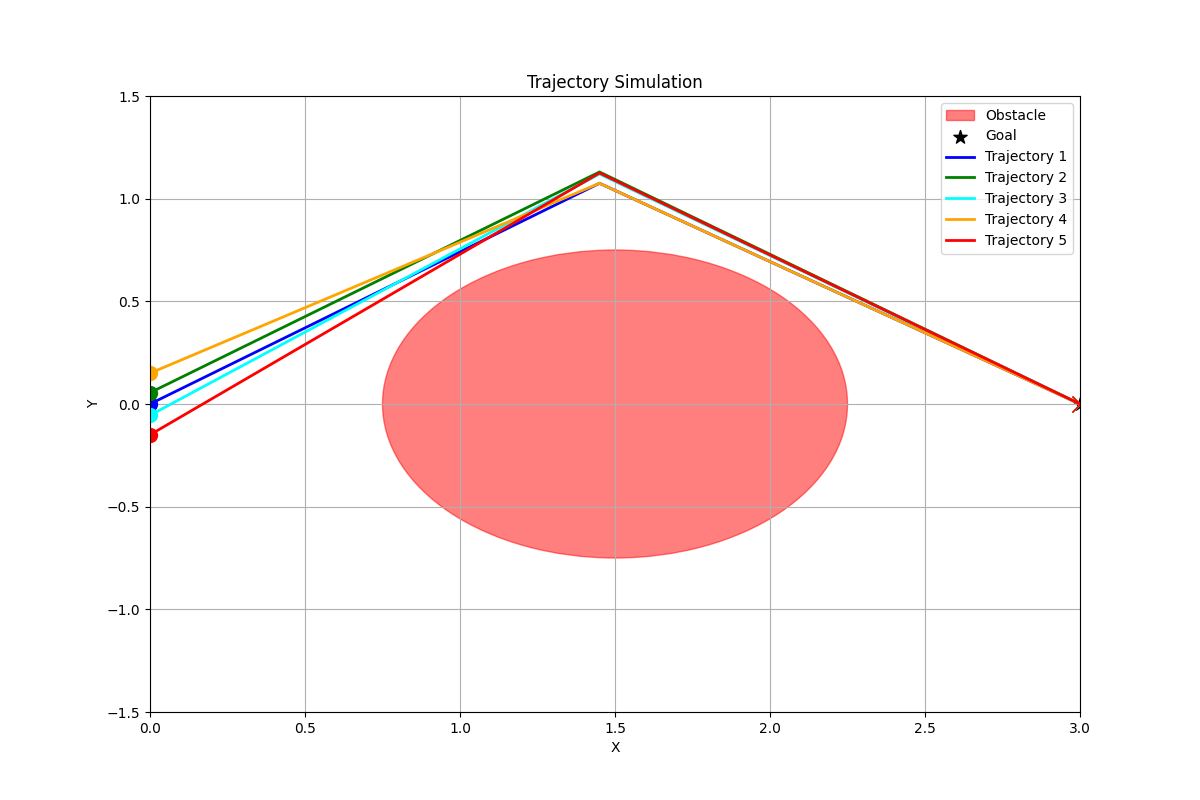
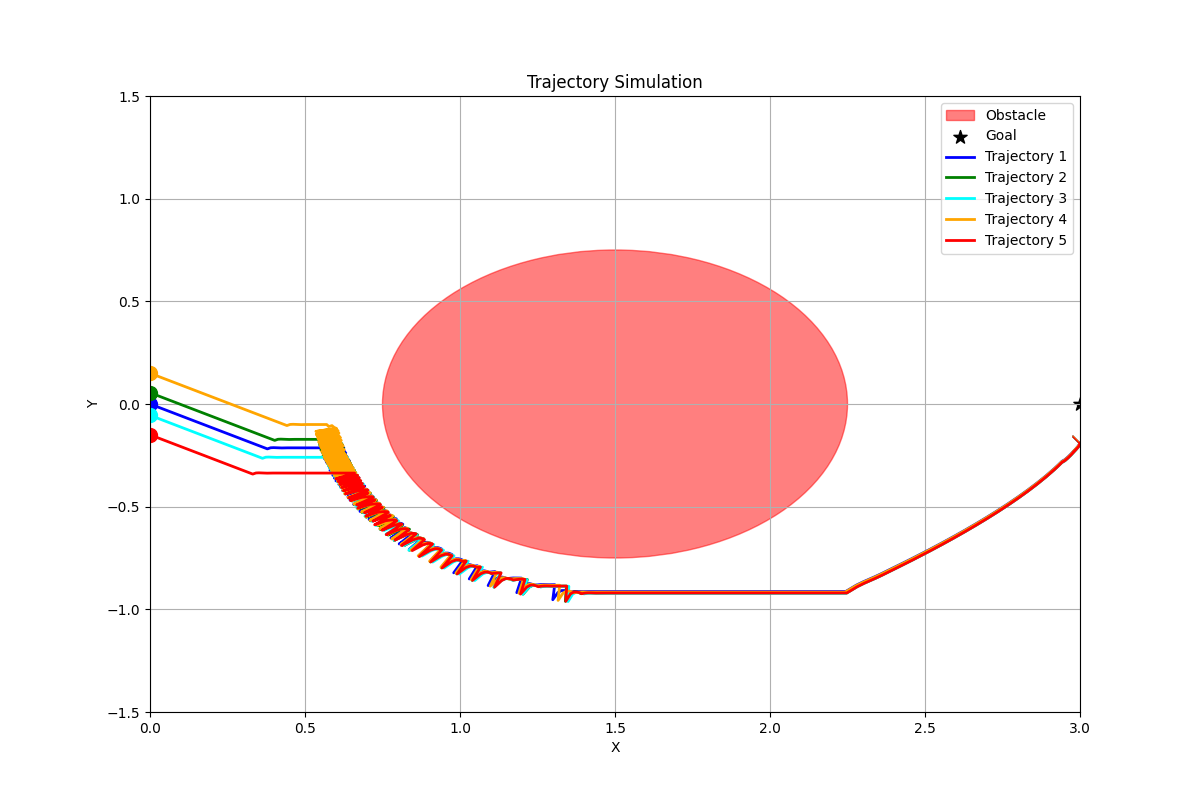
updated getDirection Tests with new protos

diff --git a/src/rl_policy/getDirectionPath.py b/src/rl_policy/getDirectionPath.py
@@ -2,8 +2,8 @@ import asyncio
 import numpy as np
 import matplotlib.pyplot as plt
 from grpclib.client import Channel
-from . import drone_pb2
-from . import drone_grpc
+from hyrl_api import obstacle_avoidance_pb2 as oa_proto
+from hyrl_api import obstacle_avoidance_grpc as oa_grpc
 import time
 
 HOST = "127.0.0.1"
@@ -16,23 +16,22 @@ STEP_SIZE = 0.05
 NOISE_MAG = 0
 
 DIRECTION_CONFIG = {
-    drone_pb2.STRAIGHT: {"angle": 0, "color": "blue", "label": "Straight"},
-    drone_pb2.LEFT: {"angle": 15, "color": "green", "label": "Left"},
-    drone_pb2.HARD_LEFT: {"angle": 30, "color": "cyan", "label": "Hard Left"},
-    drone_pb2.RIGHT: {"angle": -15, "color": "orange", "label": "Right"},
-    drone_pb2.HARD_RIGHT: {"angle": -30, "color": "red", "label": "Hard Right"},
+    oa_proto.HeadingDirection.STRAIGHT: {"angle": 0, "color": "blue", "label": "Straight"},
+    oa_proto.HeadingDirection.LEFT: {"angle": 15, "color": "green", "label": "Left"},
+    oa_proto.HeadingDirection.HARD_LEFT: {"angle": 30, "color": "cyan", "label": "Hard Left"},
+    oa_proto.HeadingDirection.RIGHT: {"angle": -15, "color": "orange", "label": "Right"},
+    oa_proto.HeadingDirection.HARD_RIGHT: {"angle": -30, "color": "red", "label": "Hard Right"},
 }
 
-
 async def get_direction(channel, x, y, z=0.0):
-    stub = drone_grpc.DroneServiceStub(channel)
-    request = drone_pb2.DirectionRequest(
-        drone_state=drone_pb2.DroneState(x=x, y=y, z=z)
+    stub = oa_grpc.ObstacleAvoidanceServiceStub(channel)
+    request = oa_proto.DirectionRequest(
+        drone_state=oa_proto.DroneState(x=x, y=y, z=z),
+        model_type=oa_proto.DirectionRequest.ModelType.HYBRID  # Use HYBRID model
     )
     start_time = time.time()
     response = await stub.GetDirection(request)
     return response.discrete_heading.direction, time.time() - start_time
-
 
 def update_state(state, direction, noise, prev_states, window=5):
     config = DIRECTION_CONFIG[direction]
@@ -67,13 +66,11 @@ def update_state(state, direction, noise, prev_states, window=5):
     proposed_state[1] = np.clip(proposed_state[1], -Y_MAX, Y_MAX)
     return proposed_state
 
-
 def is_done(state):
     x, y = state
     dist_goal = np.sqrt((x - 3.0) ** 2 + (y - 0.0) ** 2)
     dist_obst = np.sqrt((x - 1.5) ** 2 + (y - 0.0) ** 2) - OBSTACLE_RADIUS
     return dist_goal < 0.1 or x >= X_MAX or dist_obst <= 0
-
 
 async def simulate_trajectory(channel, state_init):
     state = np.array(state_init, dtype=np.float32)
@@ -93,13 +90,12 @@ async def simulate_trajectory(channel, state_init):
         )
         dist_goal = np.sqrt((state[0] - 3.0) ** 2 + (state[1] - 0.0) ** 2)
         print(
-            f"State: {state}, Direction: {drone_pb2.HeadingDirection.Name(direction)}, "
+            f"State: {state}, Direction: {oa_proto.HeadingDirection.Name(direction)}, "
             f"Dist to Obst: {dist_obst:.3f}, Dist to Goal: {dist_goal:.3f}, Time: {response_time:.4f}s"
         )
         sign *= -1
 
     return np.array(states), response_times
-
 
 async def simulate_client():
     starting_conditions = [
@@ -123,7 +119,6 @@ async def simulate_client():
         print(f"Max Sampling Rate: {1/avg_response_time:.2f} Hz")
 
         plot_trajectories(all_states)
-
 
 def plot_trajectories(all_states):
     fig, ax = plt.subplots(figsize=(12, 8))
@@ -161,15 +156,12 @@ def plot_trajectories(all_states):
     ax.set_ylim(-Y_MAX, Y_MAX)
     ax.set_xlabel("X")
     ax.set_ylabel("Y")
-    ax.set_title(
-        "Trajectory Simulation"
-    )
+    ax.set_title("Trajectory Simulation")
     ax.grid(True)
     ax.legend(loc="upper right")
 
-    plt.savefig("trajectory_simulation.png")
+    plt.savefig("getDirectionSimulation.png")
     plt.show()
-
 
 if __name__ == "__main__":
     asyncio.run(simulate_client())

diff --git a/src/rl_policy/getDirectionField.py b/src/rl_policy/getDirectionField.py
@@ -2,8 +2,8 @@ import asyncio
 import numpy as np
 import matplotlib.pyplot as plt
 from grpclib.client import Channel
-from . import drone_pb2
-from . import drone_grpc
+from hyrl_api import obstacle_avoidance_pb2 as oa_proto
+from hyrl_api import obstacle_avoidance_grpc as oa_grpc
 import time
 
 # Server connection details
@@ -18,25 +18,24 @@ OBSTACLE_RADIUS = 0.75
 
 # Direction angles (degrees) and colors
 DIRECTION_CONFIG = {
-    drone_pb2.STRAIGHT: {"angle": 0, "color": "blue", "label": "Straight"},
-    drone_pb2.LEFT: {"angle": 15, "color": "green", "label": "Left"},
-    drone_pb2.HARD_LEFT: {"angle": 30, "color": "cyan", "label": "Hard Left"},
-    drone_pb2.RIGHT: {"angle": -15, "color": "orange", "label": "Right"},
-    drone_pb2.HARD_RIGHT: {"angle": -30, "color": "red", "label": "Hard Right"},
+    oa_proto.HeadingDirection.STRAIGHT: {"angle": 0, "color": "blue", "label": "Straight"},
+    oa_proto.HeadingDirection.LEFT: {"angle": 15, "color": "green", "label": "Left"},
+    oa_proto.HeadingDirection.HARD_LEFT: {"angle": 30, "color": "cyan", "label": "Hard Left"},
+    oa_proto.HeadingDirection.RIGHT: {"angle": -15, "color": "orange", "label": "Right"},
+    oa_proto.HeadingDirection.HARD_RIGHT: {"angle": -30, "color": "red", "label": "Hard Right"},
 }
-
 
 async def get_direction(channel, x, y, z=0.0):
     """Query the GetDirection endpoint and return direction with response time."""
-    stub = drone_grpc.DroneServiceStub(channel)
-    request = drone_pb2.DirectionRequest(
-        drone_state=drone_pb2.DroneState(x=x, y=y, z=z)
+    stub = oa_grpc.ObstacleAvoidanceServiceStub(channel)
+    request = oa_proto.DirectionRequest(
+        drone_state=oa_proto.DroneState(x=x, y=y, z=z),
+        model_type=oa_proto.DirectionRequest.ModelType.HYBRID  # Use HYBRID model
     )
     start_time = time.time()
     response = await stub.GetDirection(request)
     end_time = time.time()
     return response.discrete_heading.direction, end_time - start_time
-
 
 async def simulate_client():
     """Test GetDirection across a grid, log results, and measure response time."""
@@ -53,7 +52,7 @@ async def simulate_client():
             directions.append(direction)
             response_times.append(response_time)
             print(
-                f"Point ({x:.2f}, {y:.2f}) -> Direction: {drone_pb2.HeadingDirection.Name(direction)}, Time: {response_time:.4f}s"
+                f"Point ({x:.2f}, {y:.2f}) -> Direction: {oa_proto.HeadingDirection.Name(direction)}, Time: {response_time:.4f}s"
             )
 
         # Calculate and print average response time
@@ -63,7 +62,6 @@ async def simulate_client():
 
         # Visualize results
         plot_directions(points, directions)
-
 
 def plot_directions(points, directions):
     """Plot points with colored direction arrows, obstacle, and legend."""
@@ -116,7 +114,6 @@ def plot_directions(points, directions):
     # Save and show plot
     plt.savefig("direction_simulation_colored.png")
     plt.show()
-
 
 if __name__ == "__main__":
     asyncio.run(simulate_client())

diff --git a/src/rl_policy/getTrajectorySim.py b/src/rl_policy/getTrajectorySim.py
@@ -42,7 +42,7 @@ async def simulate_client(num_waypoints, duration_s):
         np.array([0.0, 0.055], dtype=np.float32),
         np.array([0.0, -0.055], dtype=np.float32),
         np.array([0.0, 0.15], dtype=np.float32),
-        np.array([0.0, -0.15], dtype=np.float32),
+        np.array([0.0, -0.4], dtype=np.float32),
     ]
 
     async with Channel(HOST, PORT) as channel:
